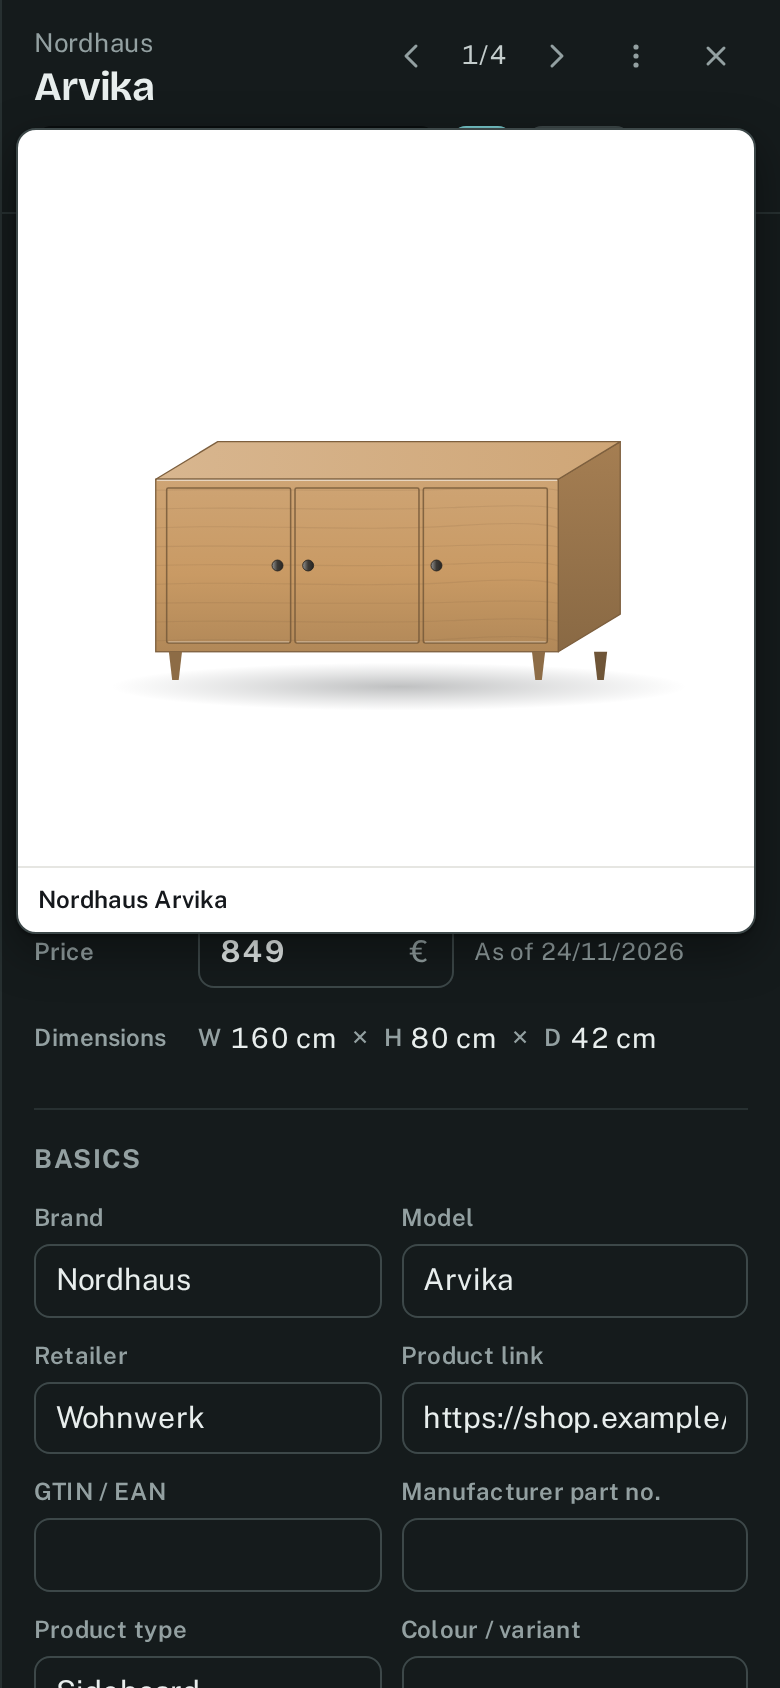
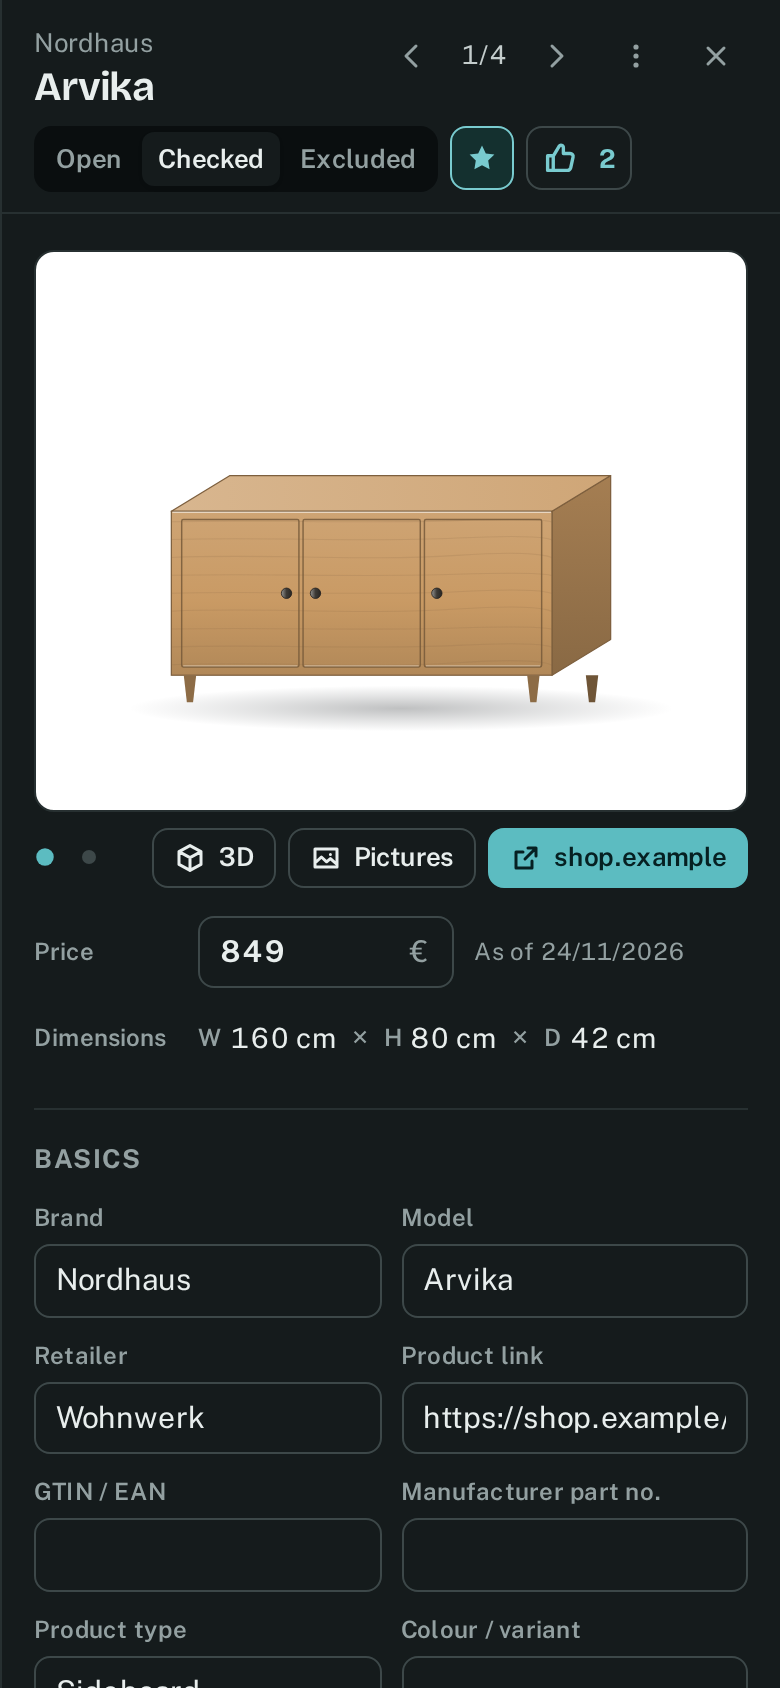
Phone screenshot of the details: tap, as on a phone (#17)
## What and why

Fixes #11. The enlarged picture in `docs/images/phone-details-*.png`
came from the screenshot run, not the app: it clicked the product name
with a mouse, the pointer then rested over the picture in the opened
details, and the hover preview (meant for a mouse) opened. Checked in
the demo at 390 px with touch: after a real tap no preview is open;
after a mouse click it is.

- `e2e/screenshots.spec.ts` taps instead of clicking and expects no
`.thumb-preview` before the picture is taken (the `blur()` workaround is
gone).
- New phone-details pictures, light and dark.
- Roadmap: #11 out of _Now_.

No change to the app, so no CHANGELOG line and no release.

## Checklist

- [x] `npm run screenshots` passes; format check passes (only a test,
pictures and docs changed)
- [x] Changes to who may see or change what have a test in
`server/access.test.ts` – none
- [x] New texts exist in `src/i18n/en.ts` and `src/i18n/de.ts` – none
- [x] Looked at in a browser at 390 px, light and dark
- [x] No personal data, real workbooks, databases or secrets in the diff
- [x] A line under _Unreleased_ in `CHANGELOG.md` if users notice the
change – users do not

🤖 Generated with [Claude Code](https://claude.com/claude-code)

Changed region(s): [[0.0, 0.0616, 0.9846, 0.5853], [0.1846, 0.2464, 0.8, 0.4313]]

diff --git a/e2e/screenshots.spec.ts b/e2e/screenshots.spec.ts
@@ -1,5 +1,5 @@
 import { mkdirSync } from 'node:fs'
-import { test, type Page } from '@playwright/test'
+import { expect, test, type Page } from '@playwright/test'
 
 /**
  * The pictures in README.md, docs/ and the website: the built-in demo (invented products only),
@@ -58,10 +58,11 @@ test('desktop', async ({ browser }) => {
 test('phone', async ({ browser }) => {
   const page = await browser.newPage({ viewport: phone, deviceScaleFactor: 2, locale: 'en-GB', hasTouch: true, isMobile: true })
   await demo(page, /Living-room sideboard/)
-  await page.getByRole('button', { name: 'Arvika', exact: true }).click()
+  // A tap, as on a phone: a mouse click would leave the pointer over the picture in the details,
+  // and the hover preview would show it enlarged on top (#11).
+  await page.getByRole('button', { name: 'Arvika', exact: true }).tap()
   await page.locator('dialog.drawer').waitFor()
-  // Opened by a tap, not the keyboard: the picture must not show enlarged.
-  await page.evaluate(() => (document.activeElement as HTMLElement | null)?.blur())
+  await expect(page.locator('.thumb-preview')).toHaveCount(0)
   await shoot(page, 'phone-details')
   await page.locator('dialog.drawer').getByRole('button', { name: 'Close', exact: true }).click()
 

diff --git a/docs/roadmap.md b/docs/roadmap.md
@@ -7,8 +7,6 @@ one in [AGENTS.md](../AGENTS.md): Propario works without it, and AI only propose
 
 ## Now
 
-- Fix the phone picture of the product details, which shows an enlarged picture on top
-  ([#11](https://github.com/schlatter/propario/issues/11)).
 - **Say at first sight what Propario is** – on the start page, the demo, the README and the
   website: it works without AI, it is for any bigger purchase (not only furniture), and it is a
   help to decide, not a search engine. Tell it as a story – one person narrows the choice, the
